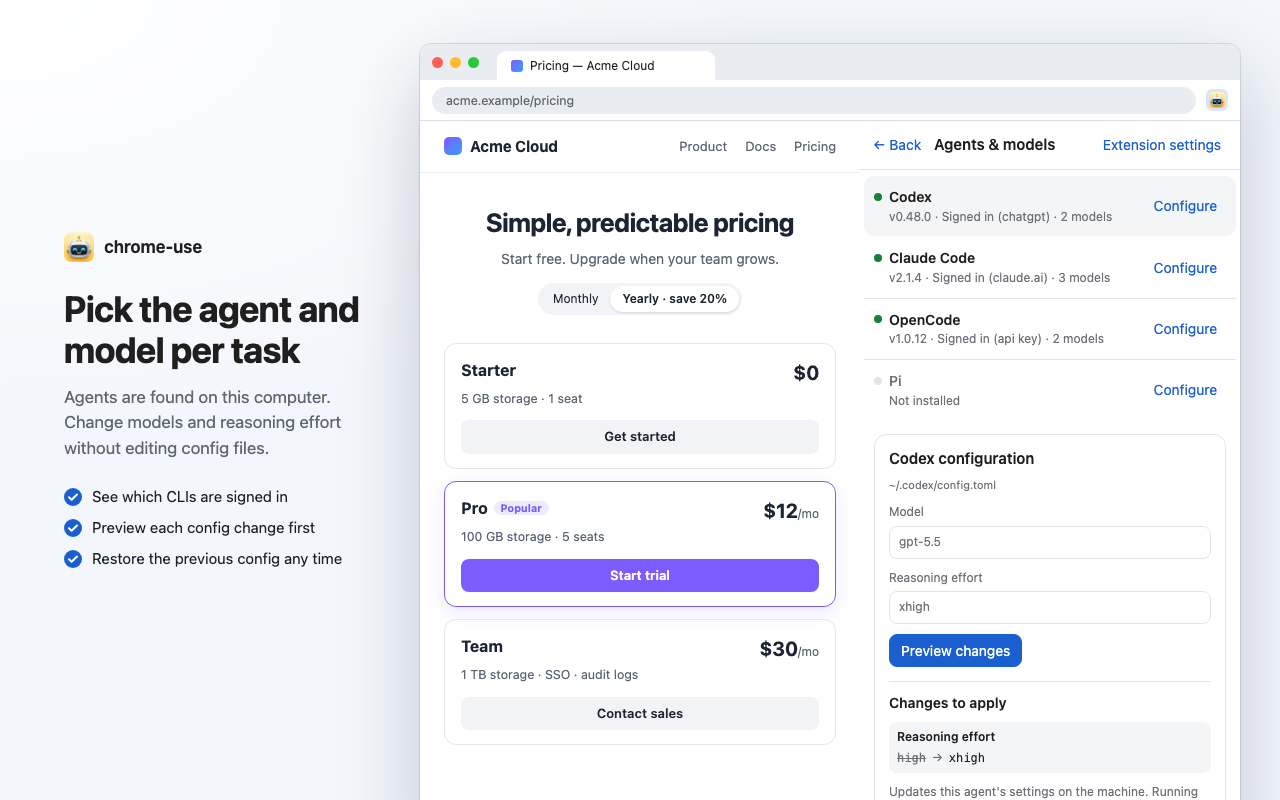
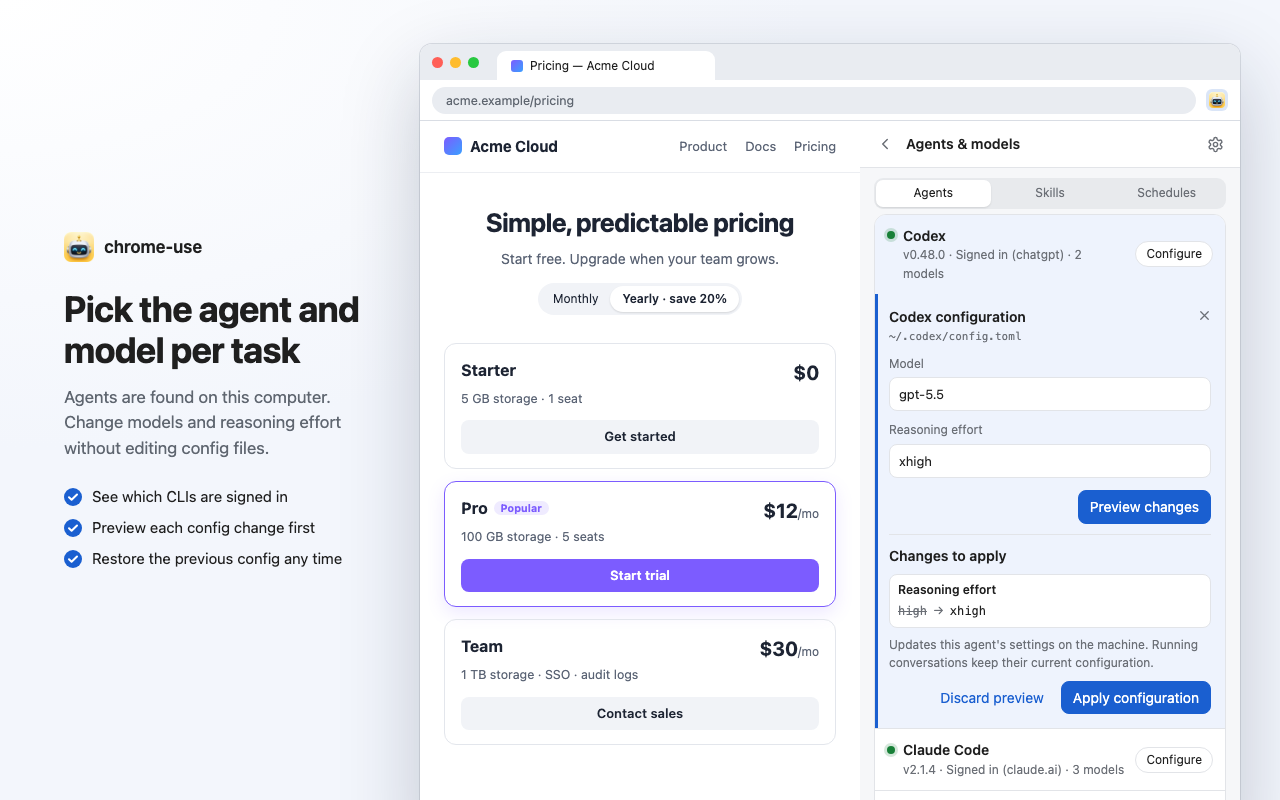
fix(panel): keep Configure on agents without a program; regenerate store screenshots
An agent with only its configuration files on disk can still be
configured. The clamped skill description shows in full on hover.

diff --git a/extensions/ab-connect/sidepanel.js b/extensions/ab-connect/sidepanel.js
@@ -1556,7 +1556,7 @@ export function createPanel({ document, runtime, storage, tabs, windows, mode = 
       head.append(element('strong', skill.name), element('span', skill.source, 'badge'));
       if (!skill.enabled) head.append(element('span', t('panel_skill_disabled'), 'badge'));
       row.append(head);
-      if (skill.description) row.append(element('div', skill.description, 'entry-description'));
+      if (skill.description) { const text = element('div', skill.description, 'entry-description'); text.title = skill.description; row.append(text); }
       const actions = element('div', undefined, 'entry-actions');
       actions.append(button(t('panel_skill_use'), async () => { skillChoice = skill; nodes.message.value = `/${skill.name} `; view(false); renderSkillPicker(); }, 'pill'));
       if (skill.editable) actions.append(button(t('panel_edit'), async () => {

diff --git a/extensions/ab-connect/sidepanel.css b/extensions/ab-connect/sidepanel.css
@@ -218,7 +218,6 @@ button.pill.danger-text { color:var(--error); border-color:transparent; backgrou
 .agent-row.installed .agent-name::before { background:var(--muted); }
 .agent-row.signed-out .agent-name::before { background:var(--error); }
 .agent-row.missing .agent-name { color:var(--muted); font-weight:500; }
-.agent-row.missing button { display:none; }
 .agent-evidence { padding-left:16px; color:var(--muted); font-size:12px; overflow-wrap:anywhere; }
 .agent-row.signed-out .agent-evidence { color:var(--error); }
 /* Inline panels: agent configuration and the schedule editor */
